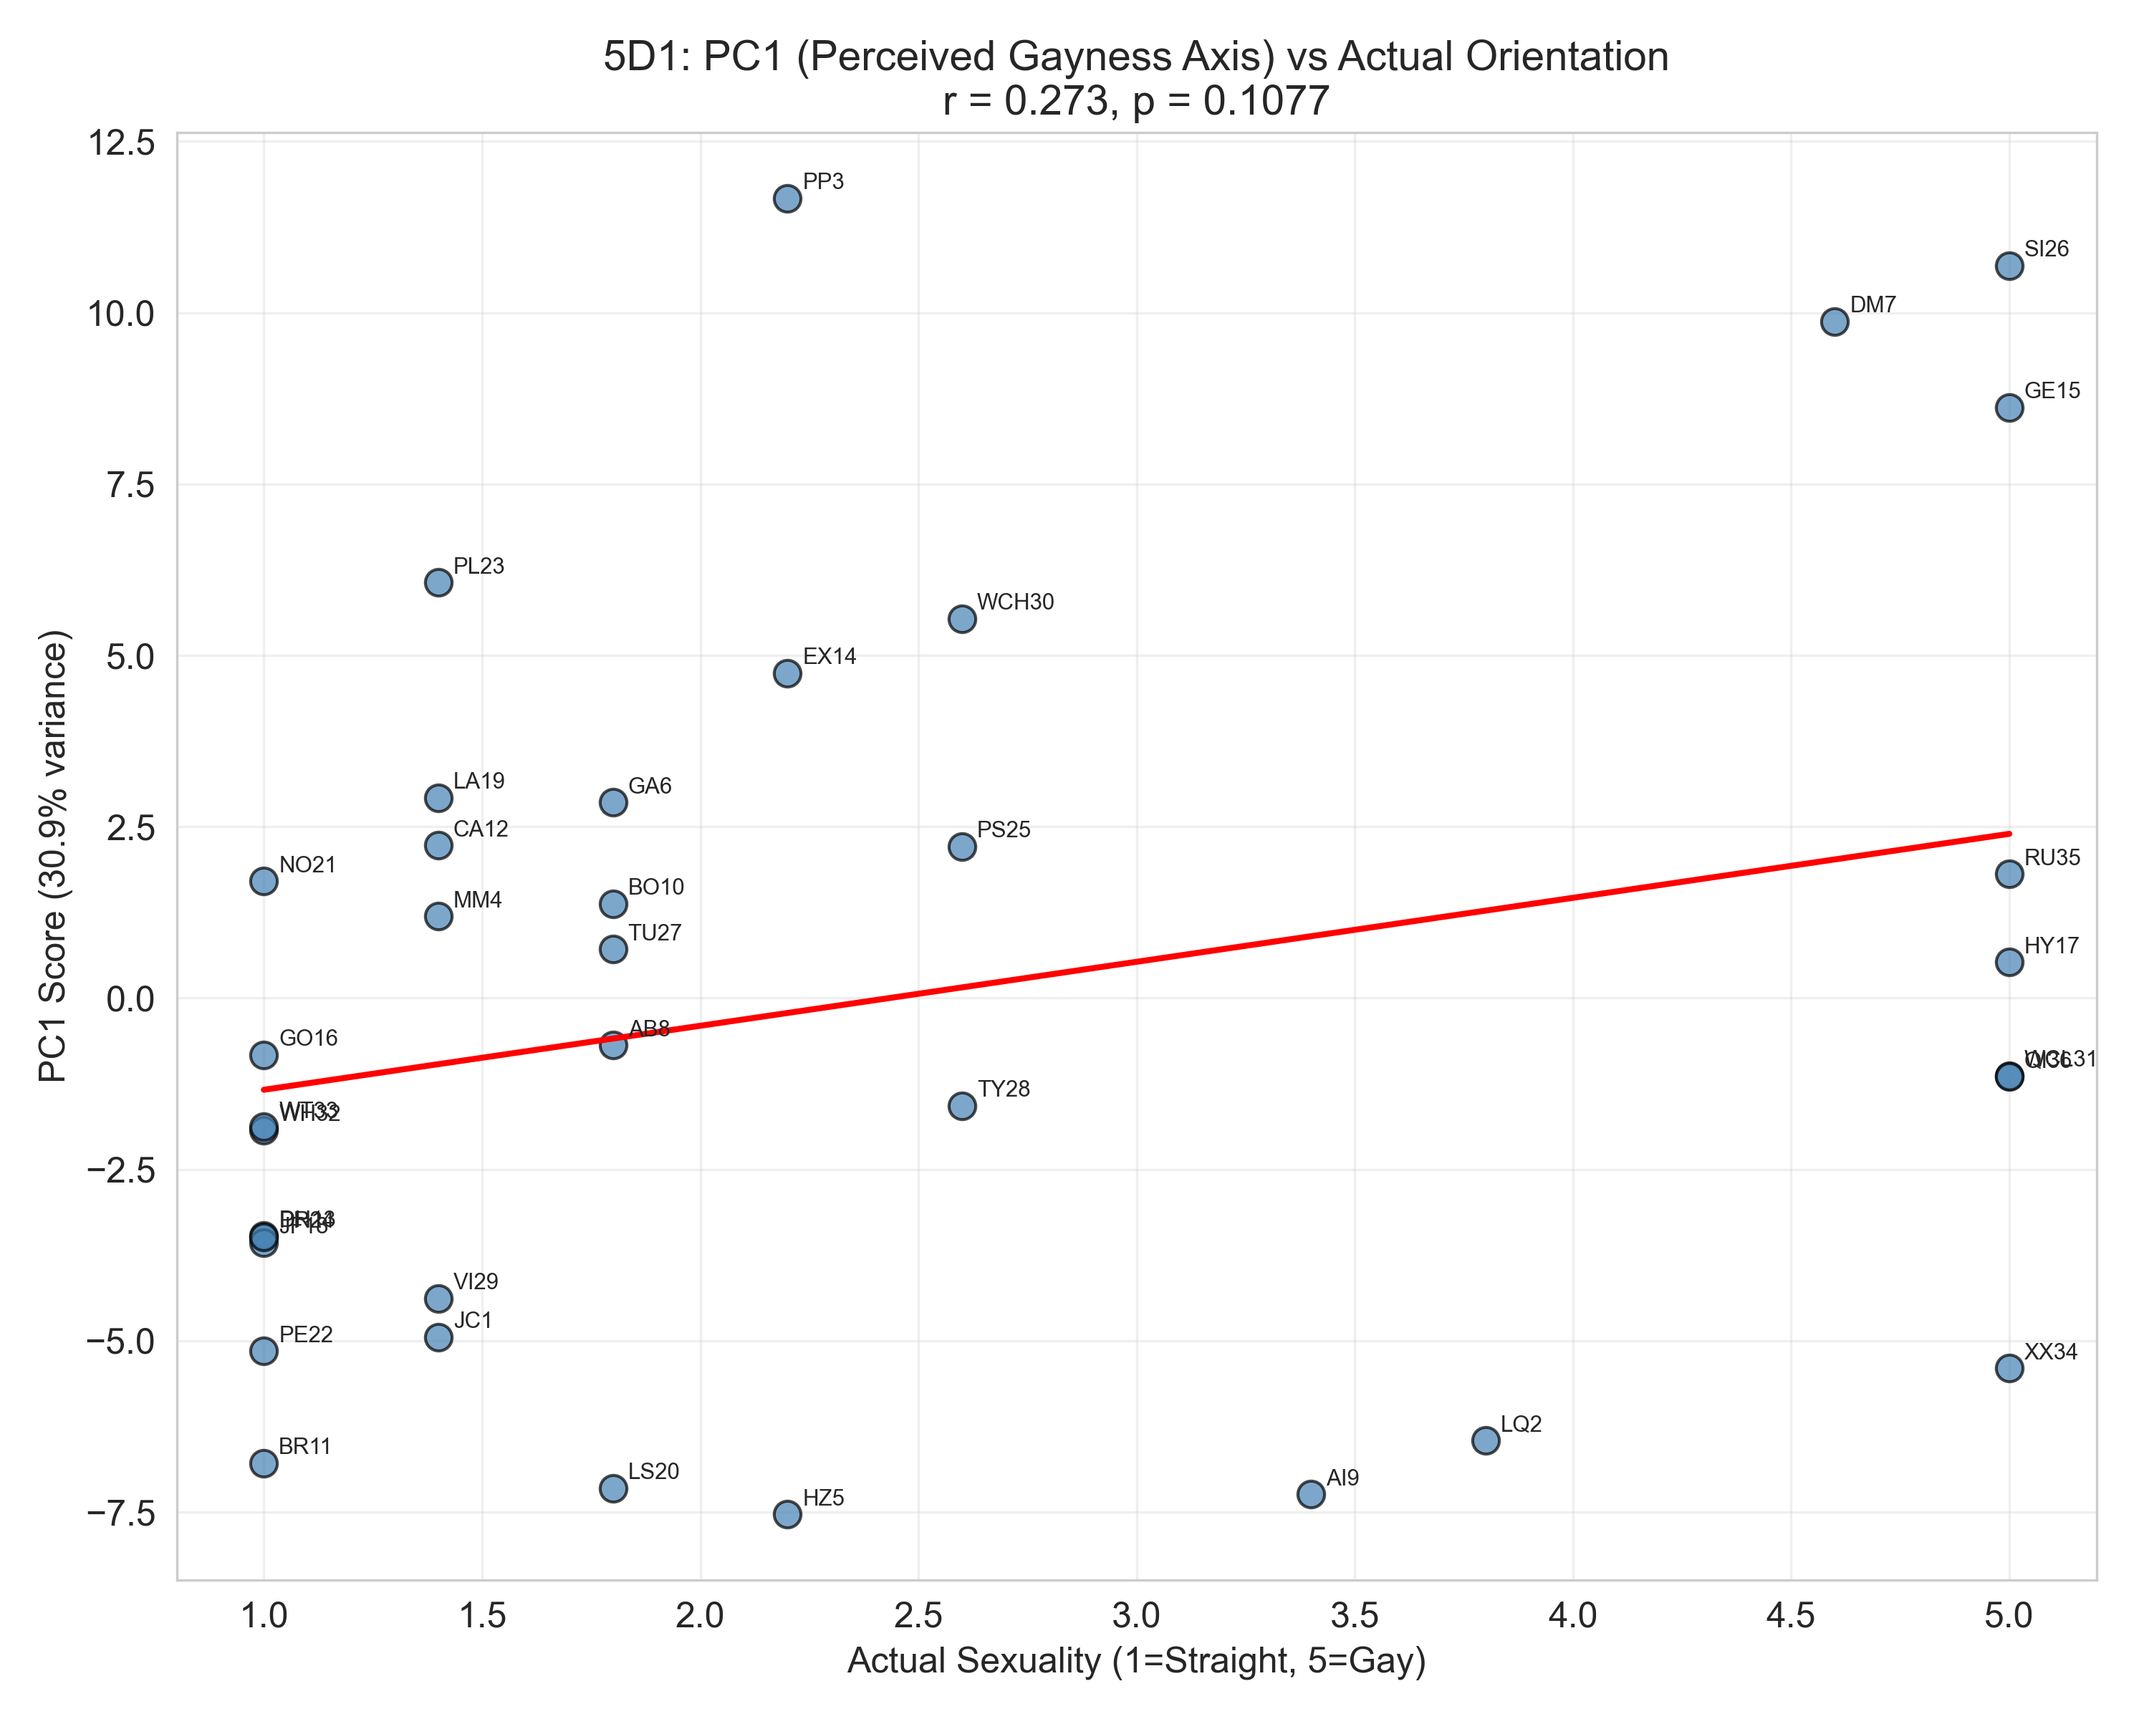
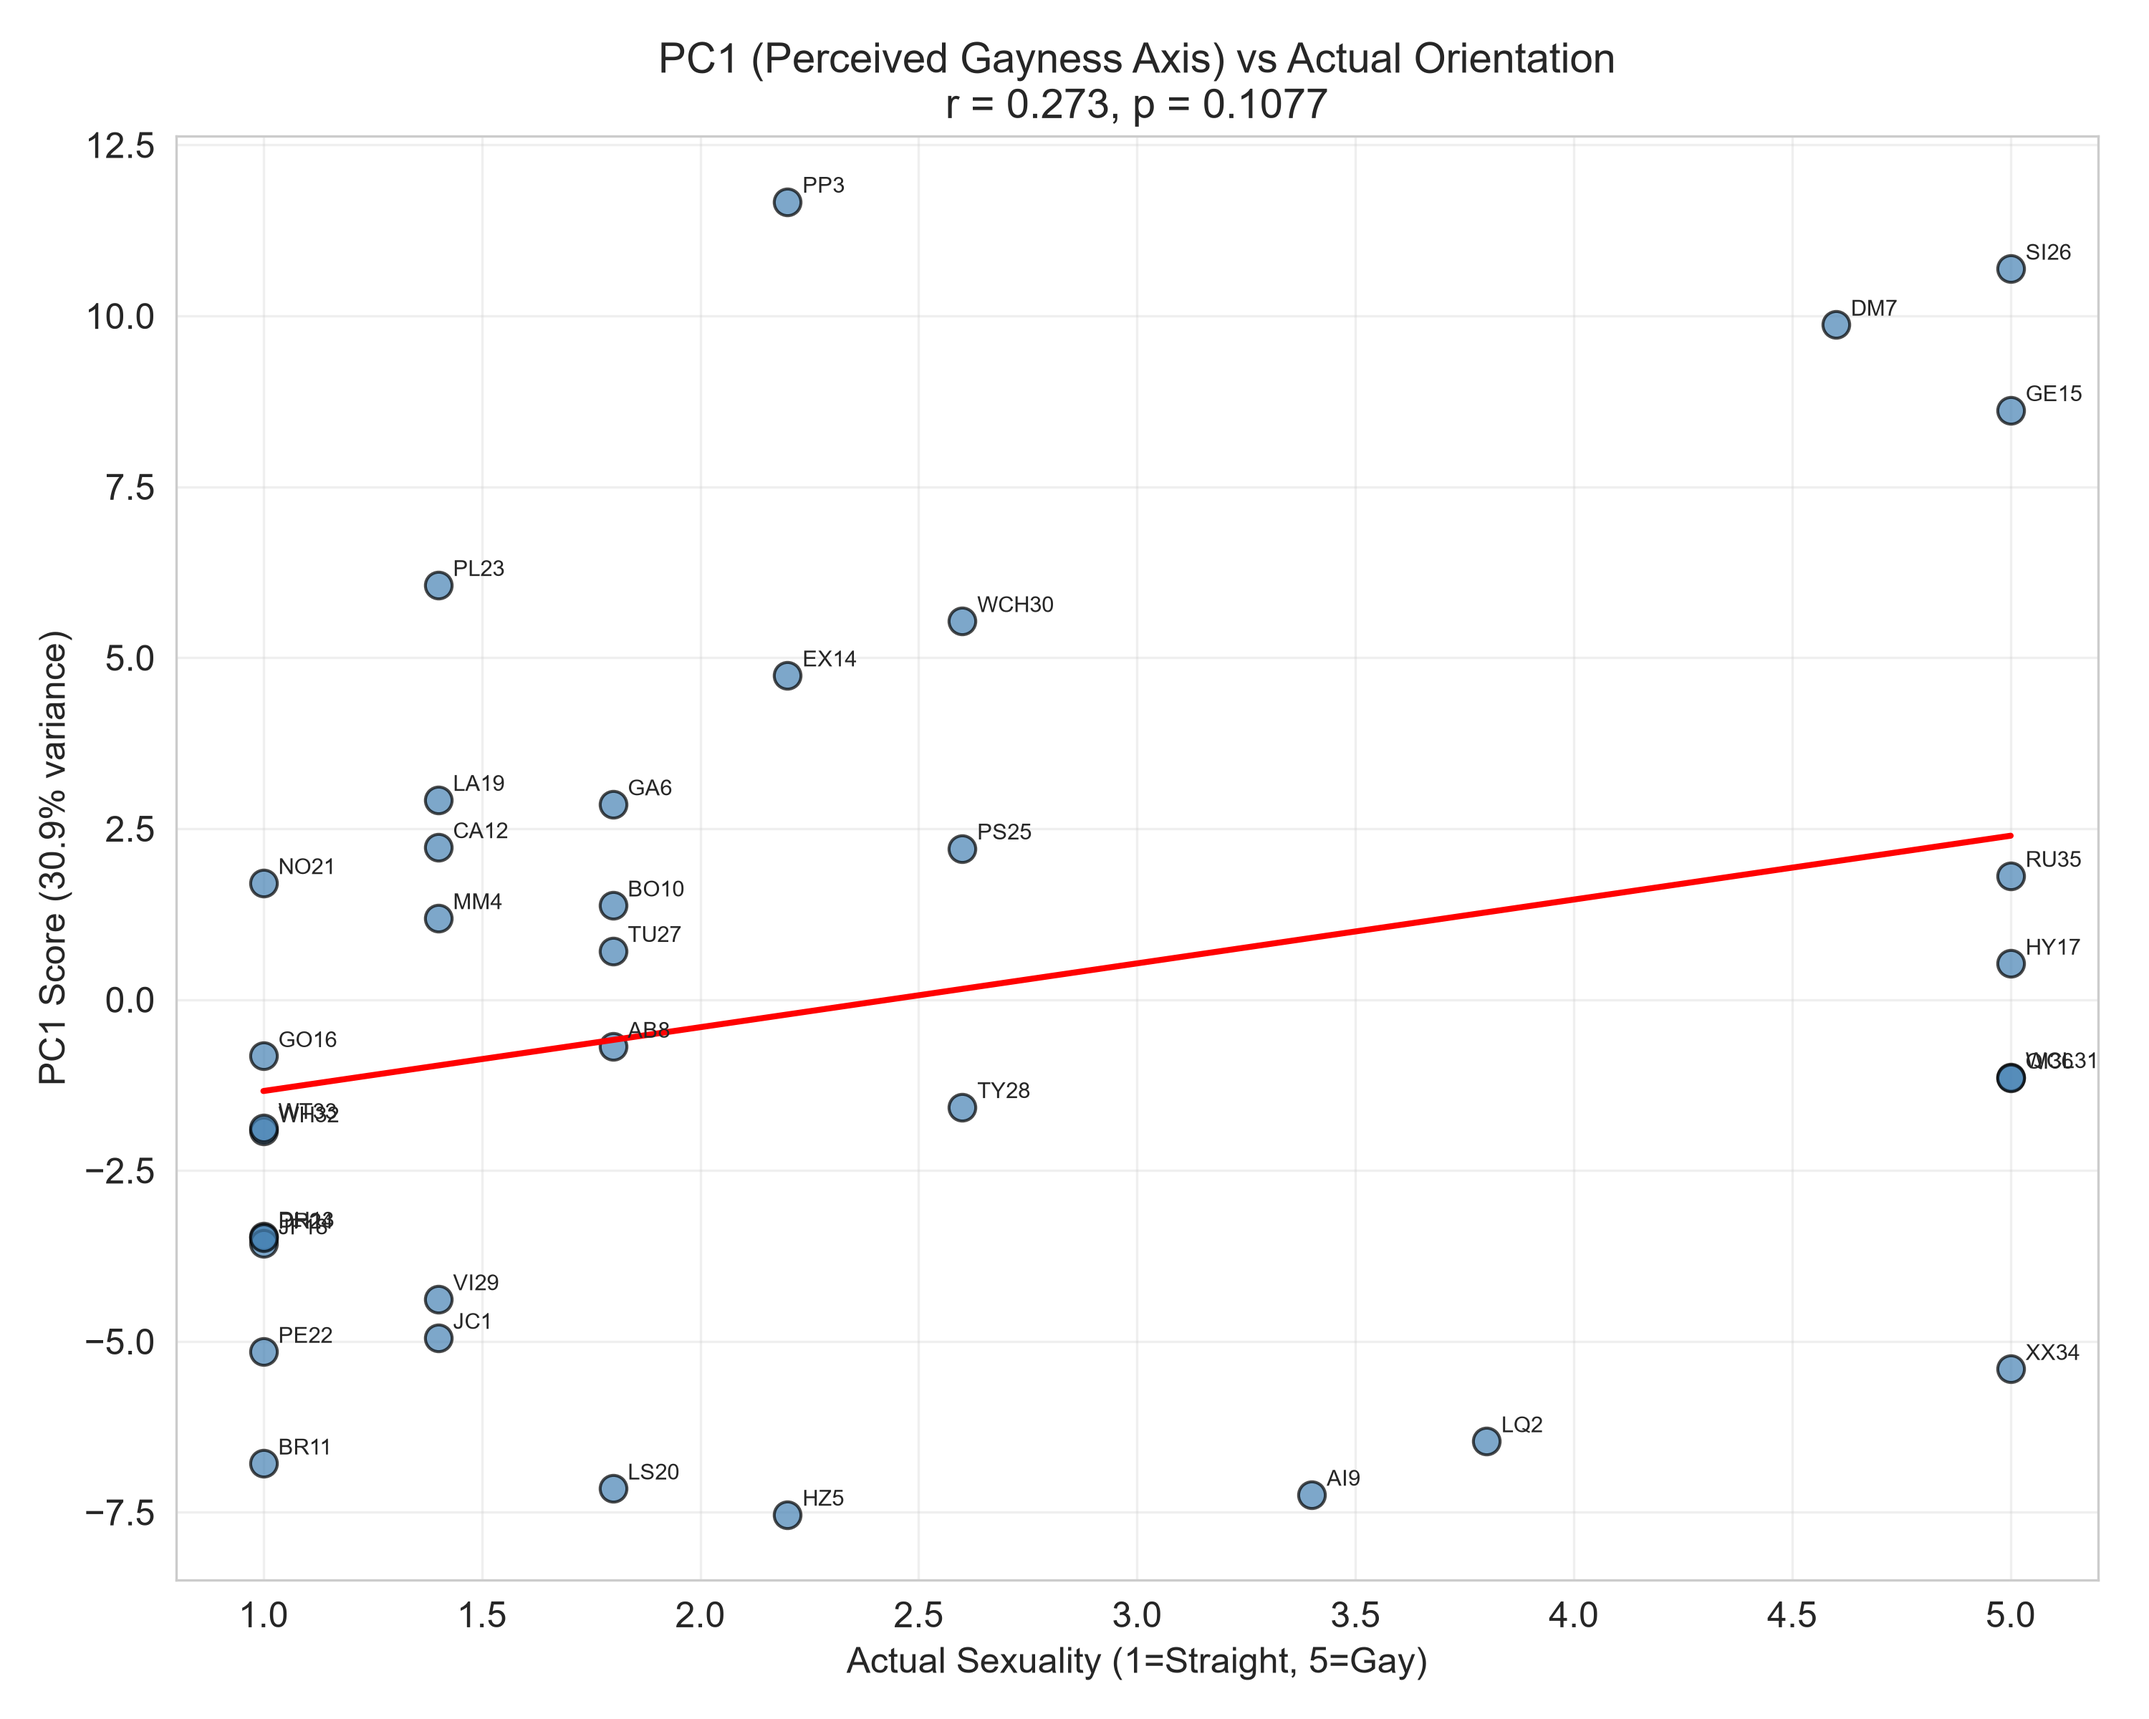
create lavlang32 presentation ready plots without codes in title

diff --git a/F24/analysis.py b/F24/analysis.py
@@ -645,7 +645,7 @@ def analysis_3c(data, log):
     ax.set_ylabel('ICC Value')
     ax.set_ylim(0, 1.1)
     ax.axhline(0, color='k', lw=0.5)
-    ax.set_title('3C: Inter-Rater Reliability by Demographic Group')
+    ax.set_title('Inter-Rater Reliability by Demographic Group')
     ax.legend()
     plt.tight_layout()
     plt.savefig(os.path.join(OUTPUT_DIR, '3C_icc_by_demographics.png'))
@@ -1132,7 +1132,7 @@ def analysis_5d(data, log, cl):
                     fontsize=7.5, xytext=(5,3), textcoords='offset points')
     ax.set_xlabel('Actual Sexuality (1=Straight, 5=Gay)')
     ax.set_ylabel(f'PC1 Score ({pc1_var:.1f}% variance)')
-    ax.set_title(f'5D1: PC1 (Perceived Gayness Axis) vs Actual Orientation\n'
+    ax.set_title(f'PC1 (Perceived Gayness Axis) vs Actual Orientation\n'
                  f'r = {r_5d1:.3f}, p = {p_5d1:.4f}')
     ax.grid(True, alpha=0.3)
     plt.tight_layout()
@@ -1155,7 +1155,7 @@ def analysis_5d(data, log, cl):
                     fontsize=7.5, xytext=(5,3), textcoords='offset points')
     ax.set_xlabel('Mean Listener Rating (1=Straight, 5=Gay)')
     ax.set_ylabel(f'PC1 Score ({pc1_var:.1f}% variance)')
-    ax.set_title(f'5D2: PC1 vs Mean Listener Rating\nr = {r_5d2:.3f}, p = {p_5d2:.4f}')
+    ax.set_title(f'PC1 vs Mean Listener Rating\nr = {r_5d2:.3f}, p = {p_5d2:.4f}')
     ax.grid(True, alpha=0.3)
     plt.tight_layout()
     plt.savefig(os.path.join(OUTPUT_DIR, '5D2_pc1_vs_mean_rating.png'))
@@ -1180,7 +1180,7 @@ def analysis_5d(data, log, cl):
     plt.colorbar(sc, ax=ax, label='Actual Sexuality (1=Straight, 5=Gay)')
     ax.set_xlabel(f'|PC1| — Distance from Perceptual Center ({pc1_var:.1f}% var)')
     ax.set_ylabel('Absolute Error (|mean rating − actual|)')
-    ax.set_title(f'5D3: Perceptual Extremity (|PC1|) vs Rating Accuracy\n'
+    ax.set_title(f'Perceptual Extremity (|PC1|) vs Rating Accuracy\n'
                  f'r = {r_5d3:.3f}, p = {p_5d3:.4f}')
     ax.grid(True, alpha=0.3)
     plt.tight_layout()
@@ -1700,7 +1700,7 @@ def analysis_5g(data, log, cl):
                     fontsize=7.5, xytext=(5, 3), textcoords='offset points')
     ax.set_xlabel('SD of Listener Ratings (low = high agreement)')
     ax.set_ylabel(f'Non-Consensus Distance sqrt(PC2^2+...+PC5^2) ({var_pct:.1f}% var)')
-    ax.set_title(f'5G: Rating Disagreement vs Non-Consensus PCA Distance\nr = {r:.3f}, p = {p:.4f}')
+    ax.set_title(f'Rating Disagreement vs Non-Consensus PCA Distance\nr = {r:.3f}, p = {p:.4f}')
     ax.grid(True, alpha=0.3)
     plt.tight_layout()
     plt.savefig(os.path.join(OUTPUT_DIR, '5G_sd_vs_nonconsensus_dist.png'))

diff --git a/F24/analysis_summary.md b/F24/analysis_summary.md
@@ -3,133 +3,12 @@
 ## Sample: 85 listeners, 36 speakers
 Missing ratings: 12 / 3060 (0.4%)
 
-## 1A. Overall Accuracy
-- Spearman ρ = 0.2769, p = 0.102110
-- Regression: predicted = 0.150 * actual + 2.339
-
-## 1B. Accuracy by Gender
-- Male: ρ = 0.3196, N = 31
-- Female: ρ = 0.2446, N = 54
-
-## 1C. Accuracy by Orientation
-- Gay/Lesbian: insufficient data (N=2)
-- Straight: ρ = 0.2467, N = 70
-- Bi/Pan: ρ = 0.1450, N = 4
-- Other/Prefer not to say: ρ = 0.4084, N = 8
-
-## 1D. Accuracy by Familiarity
-- Low: ρ = 0.2362, N = 30
-- Medium: ρ = 0.2728, N = 44
-- High: ρ = 0.3317, N = 10
-
-## 2A. Individual Listener Accuracy
-- Mean ρ = 0.1608, Median = 0.1638
-- SD = 0.1692, Range = [-0.2228, 0.5611]
-- N listeners with valid r: 85
-
-## 2B. Accuracy vs Listener Characteristics
-- Gender: Male M=0.172 vs Female M=0.154, t=0.46, p=0.6439
-- Orientation ANOVA: F=0.92, p=0.4039
-- Religiosity vs accuracy: r=0.027, p=0.8105
-- Familiarity vs accuracy: r=0.154, p=0.1606
-
-## 3A. Inter-Rater Reliability (ICC)
-- ICC(2,1) single measures = 0.2380
-- ICC(2,k) average measures = 0.9637
-- Computed on 27 speakers with complete data across 85 raters
-- (Mean-imputed, all 36 speakers) ICC(2,1) = 0.2457, ICC(2,k) = 0.9651
-
-## 3B. Per-Speaker Agreement
-- Highest agreement (lowest SD): AI9 (SD=0.900)
-- Lowest agreement (highest SD): RU35 (SD=1.658)
-- Mean SD across speakers: 1.368
-
 ## 3C. ICC by Demographic Group
 - Male (N=31): ICC(2,1) = 0.2312, ICC(2,k) = 0.9031
 - Female (N=54): ICC(2,1) = 0.2710, ICC(2,k) = 0.9525
 - Fam: Low (N=30): ICC(2,1) = 0.1947, ICC(2,k) = 0.8789
 - Fam: Medium (N=44): ICC(2,1) = 0.2895, ICC(2,k) = 0.9472
 - Fam: High (N=10): ICC(2,1) = 0.2677, ICC(2,k) = 0.7852
-
-## 4A. Consensus vs Accuracy
-- Correlation between SD and absolute error: r = 0.2691, p = 0.1125
-- Interpretation: Higher agreement associated with higher accuracy
-
-## 4B. Mean-Based Error vs Individual-Level MAE
-- Individual-level MAE = mean(|rating_i - actual|) per speaker
-- Points above diagonal: mean metric was overly optimistic (bimodal cancellation)
-- Top 5 divergers (IndivMAE - MeanBased):
-  TY28: indiv MAE = 1.268, mean-based = 0.147, diff = +1.122
-  LS20: indiv MAE = 0.932, mean-based = 0.149, diff = +0.783
-  PS25: indiv MAE = 1.202, mean-based = 0.458, diff = +0.744
-  WCH30: indiv MAE = 1.548, mean-based = 0.842, diff = +0.706
-  BO10: indiv MAE = 1.633, mean-based = 0.991, diff = +0.642
-
-## 5A. Speaker Readability
-(See quadrant plot for detailed speaker positions)
-
-## 5B. Accuracy at Extremes
-- Kruskal-Wallis: H=6.05, p=0.1952
-  - 1 (Straight): N=15, Mean error=1.316
-  - 2: N=8, Mean error=1.057
-  - 3 (Middle): N=4, Mean error=0.822
-  - 4: N=1, Mean error=2.033
-  - 5 (Gay): N=8, Mean error=1.766
-
-## 5C1. Hierarchical Clustering
-- Ward linkage on standardized 85-dimensional listener rating vectors
-- See dendrogram plot for speaker groupings
-
-## 5C2. PCA Variance Diagnostics
-- PC1 = 30.9%, PC2 = 6.1%, 2D total = 37.0%
-- Components needed for 50% variance: 5 (PC1–PC5: 51.3%)
-- Components needed for 70% variance: 11 (PC1–PC11: 71.2%)
-
-## 5C3. K-means Diagnostics (2D PCA)
-- Best k by silhouette: k=4 (score=0.518)
-- k=3 silhouette: 0.446
-- k=4 silhouette: 0.518
-
-## 5C4. DBSCAN on 2D PCA
-- Kneedle eps=2.048: 2 cluster(s), 5 noise
-  - Noise: PP3, DM7, GE15, SI26, XX34
-  - Cluster 0: JC1, LQ2, HZ5, AB8, AI9, BR11, DH13, GO16, HY17, JF18, LS20, PE22, PR24, TU27, TY28, VI29, WCL31, WH32, WT33, RU35, QI36
-  - Cluster 1: MM4, GA6, BO10, CA12, EX14, LA19, NO21, PL23, PS25, WCH30
-- Conservative eps=1.520: 6 cluster(s), 14 noise
-  - Noise: PP3, MM4, DM7, EX14, GE15, JF18, PL23, SI26, TU27, WCH30, WH32, WT33, XX34, RU35
-  - Cluster 0: JC1, DH13, PE22, PR24, VI29
-  - Cluster 1: LQ2, HZ5, AI9, BR11, LS20
-  - Cluster 2: GA6, CA12, NO21
-  - Cluster 3: AB8, HY17, WCL31
-  - Cluster 4: GO16, TY28, QI36
-  - Cluster 5: BO10, LA19, PS25
-- K-means k=4 cluster members:
-  - Cluster 0: MM4, GA6, BO10, CA12, EX14, LA19, NO21, PL23, PS25, WCH30
-  - Cluster 1: JC1, LQ2, HZ5, AI9, BR11, DH13, JF18, LS20, PE22, PR24, VI29, WH32, WT33, XX34
-  - Cluster 2: PP3, DM7, GE15, SI26
-  - Cluster 3: AB8, GO16, HY17, TU27, TY28, WCL31, RU35, QI36
-
-## 5C5. DBSCAN on 5-Component PCA (51.3% variance)
-- Kneedle eps=5.135: 2 cluster(s), 3 noise
-  - Noise: PL23, TU27, RU35
-  - Cluster 0: JC1, LQ2, MM4, HZ5, GA6, AB8, AI9, BO10, BR11, CA12, DH13, EX14, GO16, HY17, JF18, LA19, LS20, NO21, PE22, PR24, PS25, TY28, VI29, WCH30, WCL31, WH32, WT33, XX34, QI36
-  - Cluster 1: PP3, DM7, GE15, SI26
-- Conservative eps=3.869: 3 cluster(s), 16 noise
-  - Noise: MM4, GA6, AB8, BO10, CA12, GE15, GO16, HY17, NO21, PL23, TU27, TY28, WCH30, WCL31, RU35, QI36
-  - Cluster 0: JC1, LQ2, HZ5, AI9, BR11, DH13, JF18, LS20, PE22, PR24, VI29, WH32, WT33, XX34
-  - Cluster 1: PP3, DM7, SI26
-  - Cluster 2: EX14, LA19, PS25
-
-## 5C6. DBSCAN on 11-Component PCA (71.2% variance)
-- Kneedle eps=5.081: 1 cluster(s), 30 noise
-  - Noise: JC1, PP3, MM4, GA6, DM7, AB8, BO10, CA12, DH13, EX14, GE15, GO16, HY17, JF18, LA19, NO21, PE22, PL23, PR24, PS25, SI26, TU27, TY28, VI29, WCH30, WCL31, WH32, WT33, RU35, QI36
-  - Cluster 0: LQ2, HZ5, AI9, BR11, LS20, XX34
-- Conservative eps=6.572: 4 cluster(s), 14 noise
-  - Noise: MM4, GA6, BO10, DH13, GE15, GO16, HY17, NO21, PL23, TU27, TY28, WCH30, WT33, RU35
-  - Cluster 0: JC1, LQ2, HZ5, AI9, BR11, JF18, LS20, PE22, PR24, VI29, WH32, XX34
-  - Cluster 1: PP3, DM7, SI26
-  - Cluster 2: AB8, WCL31, QI36
-  - Cluster 3: CA12, EX14, LA19, PS25
 
 ## 5D1. PC1 vs Actual Orientation
 - Pearson r = 0.2727, p = 0.1077
@@ -146,84 +25,11 @@ Missing ratings: 12 / 3060 (0.4%)
 - Negative r = speakers at PC1 extremes are rated MORE accurately
 - Positive r = speakers at PC1 extremes are rated LESS accurately
 
-## 5E1. PC2 vs Mean Listener Rating
-- Pearson r = -0.0131, p = 0.9393
-- R² = 0.0002
-- Variance explained by PC2: 6.1%
-
-## 5E2. PC3 vs Mean Listener Rating
-- Pearson r = 0.0257, p = 0.8817
-- R² = 0.0007
-- Variance explained by PC3: 5.6%
-
-## 5E3. PC4 vs Mean Listener Rating
-- Pearson r = 0.0208, p = 0.9041
-- R² = 0.0004
-- Variance explained by PC4: 4.6%
-
-## 5E4. PC5 vs Mean Listener Rating
-- Pearson r = 0.0040, p = 0.9816
-- R² = 0.0000
-- Variance explained by PC5: 4.1%
-
-## 5F. Speaker Rating SD vs |PC2|
-- Pearson r = 0.3559, p = 0.0332
-- R² = 0.1266
-- r ~= 0  => PC2 is NOT simply capturing disagreement magnitude
-- r > 0   => high-SD speakers sit further from the PC2 origin
-
 ## 5G. Rating SD vs Non-Consensus PCA Distance (PC2-PC5)
 - Pearson r = 0.7788, p = 0.0000
 - R2 = 0.6066
 - Non-consensus distance = sqrt(PC2^2 + PC3^2 + PC4^2 + PC5^2)
 - Variance captured by PC2-PC5: 20.3%
-
-## 6A. Listener Response Bias
-- Grand mean rating: 2.726
-- SD of listener means: 0.392
-- Range: [1.94, 3.58]
-
-## 6B. Religiosity vs Rating Bias
-- r = 0.0398, p = 0.7212
-- More religious listeners rate speakers as gayer
-
-## 6C. Listener Response Range
-- Mean listener SD: 1.550
-- Range of SDs: [1.09, 1.89]
-
-## 7A. Gender x Orientation Interaction
-- statsmodels not available; skipping formal ANOVA
-
-## 7B. Match Effects
-- Gay speakers (actual >= 4): 8 speakers
-- Straight speakers (actual <= 2): 20 speakers
-- Gay listeners: MAE for gay speakers = 1.675, for straight speakers = 0.860
-- Straight listeners: MAE for gay speakers = 1.810, for straight speakers = 1.465
-- Bi/Pan listeners: MAE for gay speakers = 1.556, for straight speakers = 1.685
-
-## 8A. Signal Detection Theory
-- Threshold for dichotomization: 3.0
-- Mean d' = 0.1127 (SD = 0.5039)
-- Mean criterion c = -0.0771 (SD = 0.3144)
-- d' > 0 indicates above-chance sensitivity
-
-## 8B. d' by Listener Group
-- Gender=Male: Mean d'=0.178, N=31
-- Gender=Female: Mean d'=0.075, N=54
-- Orientation=Straight: Mean d'=0.103, N=70
-- Orientation=Bi/Pan: Mean d'=-0.033, N=4
-- Orientation=Gay: Mean d'=0.416, N=2
-- Familiarity=Low: Mean d'=0.033, N=30
-- Familiarity=Medium: Mean d'=0.130, N=44
-- Familiarity=High: Mean d'=0.213, N=10
-
-## 9A. Per-Speaker Mean-Based Error (sorted)
-- Range: 0.147 (TY28) to 3.047 (XX34)
-- Mean across speakers: 1.324
-
-## 9B. Per-Speaker Individual-Level MAE (sorted)
-- Range: 0.619 (SI26) to 3.035 (XX34)
-- Mean across speakers: 1.571
 
 ## Key Findings - Speaker Rankings
 
